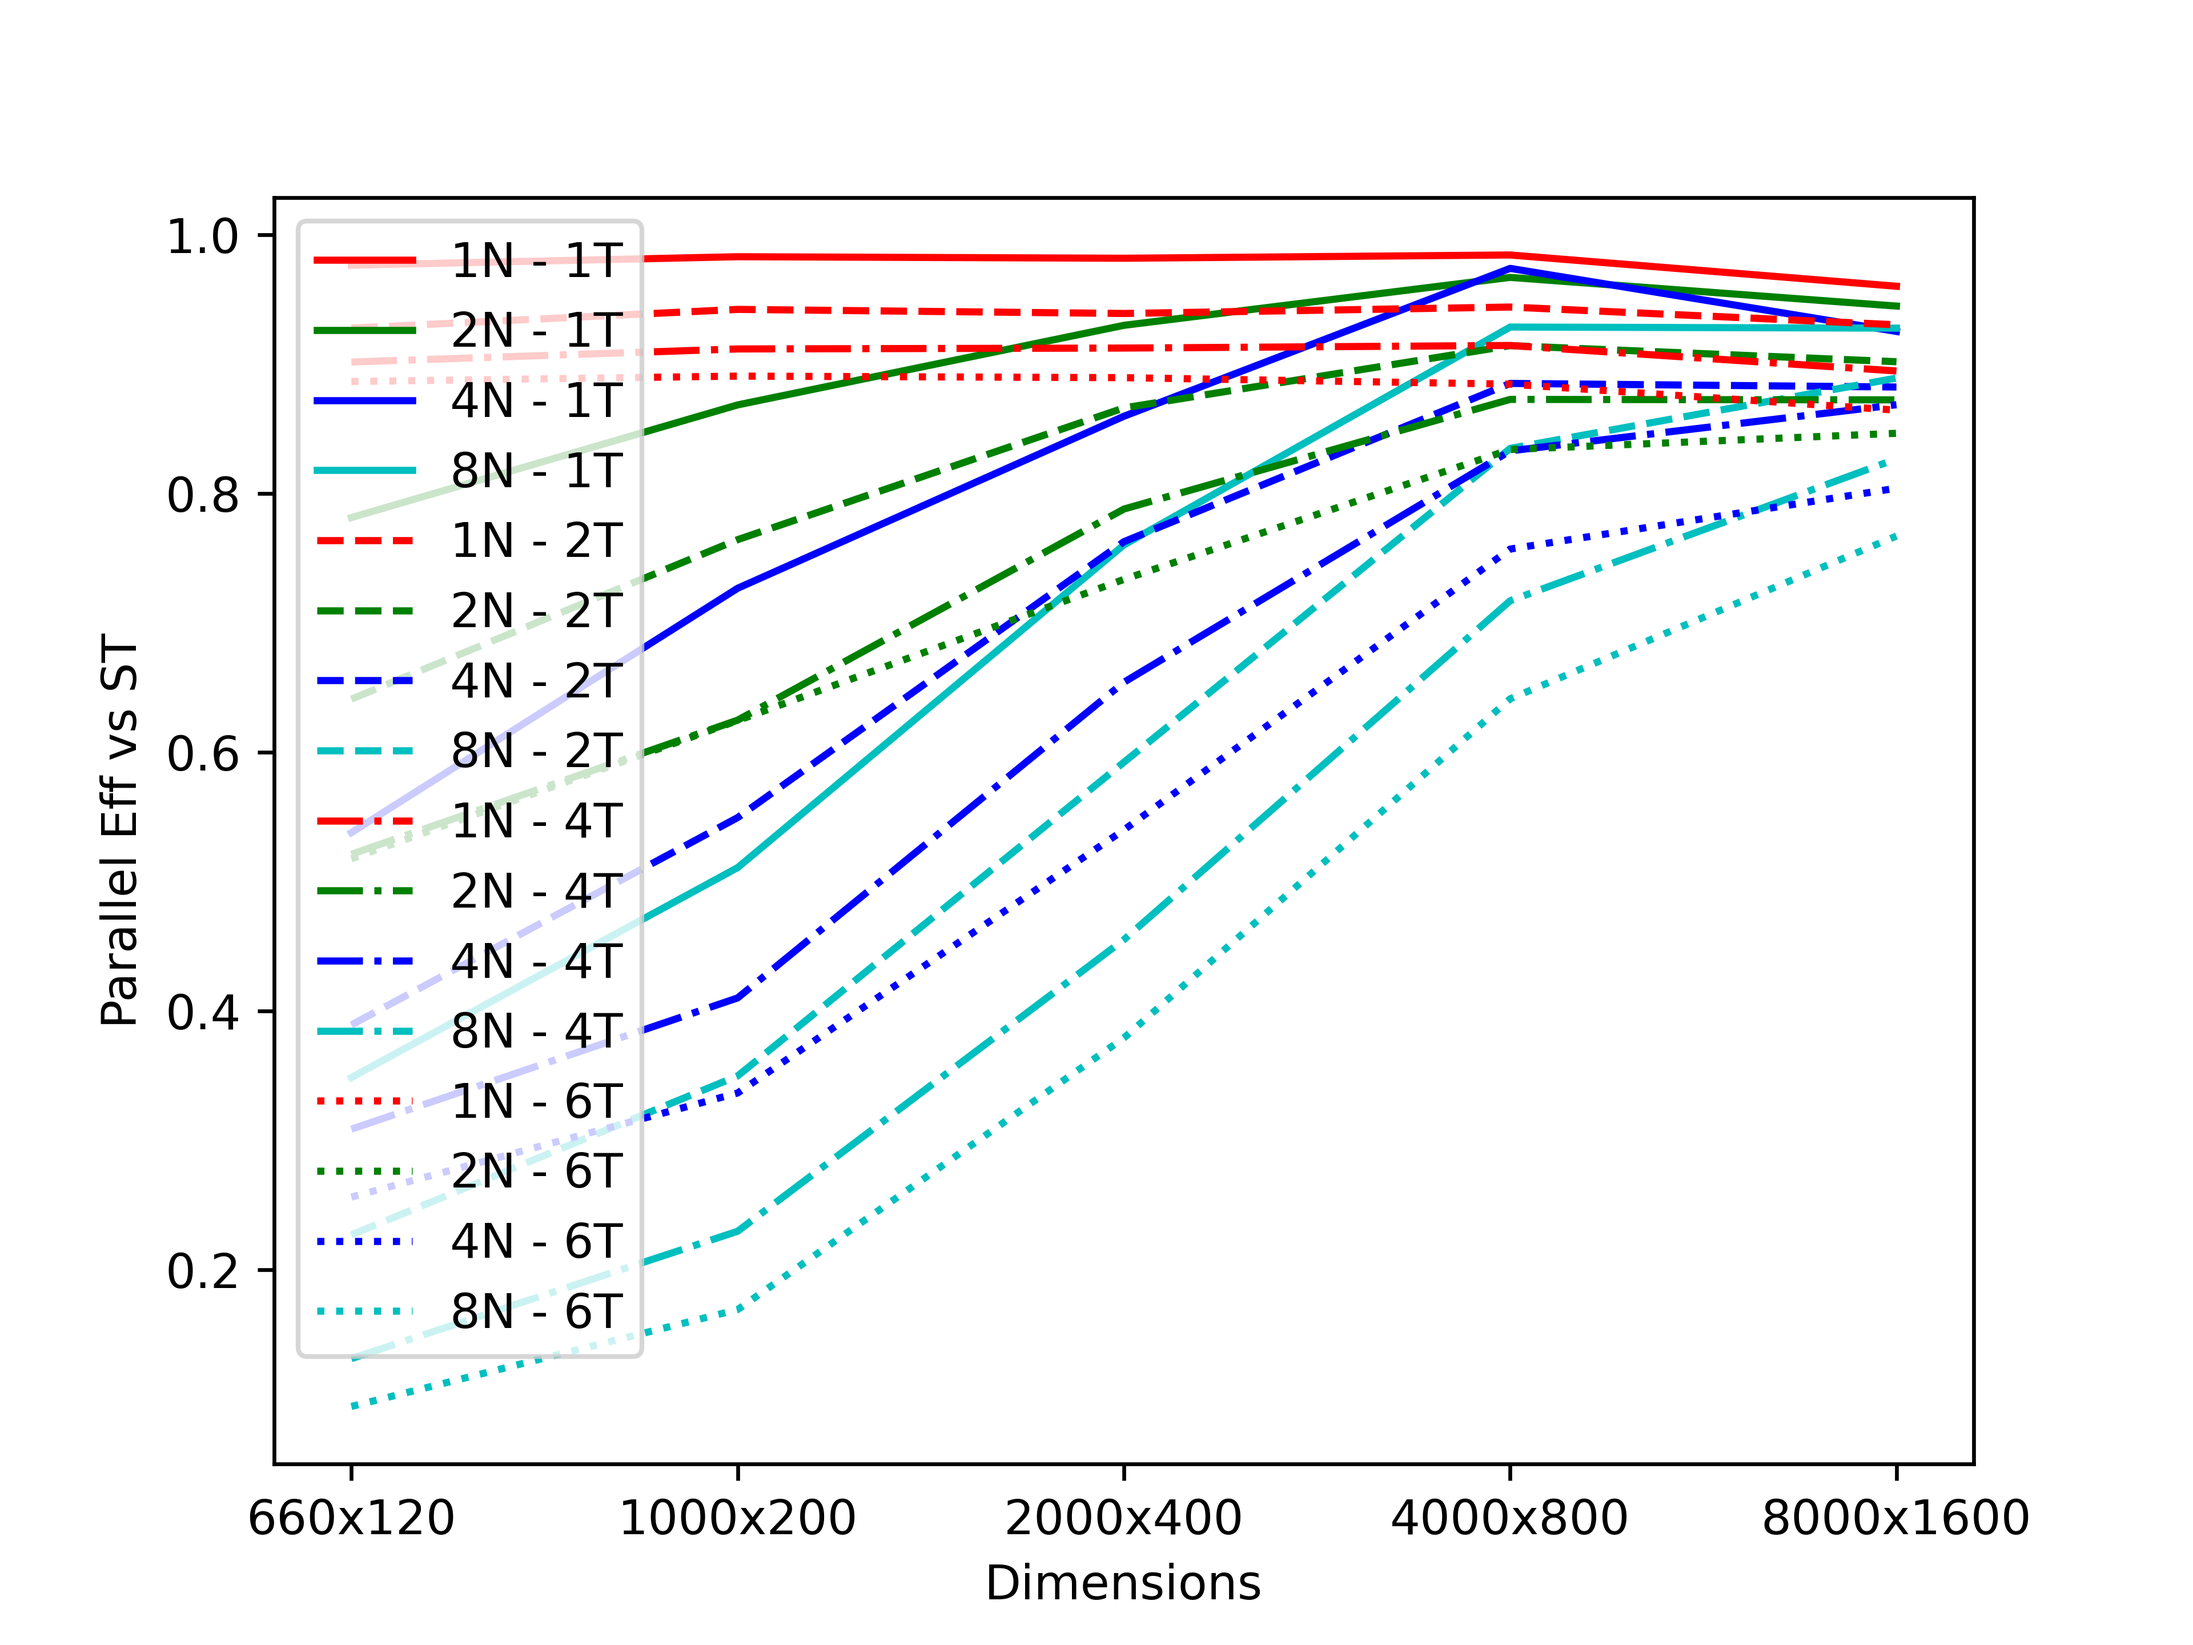
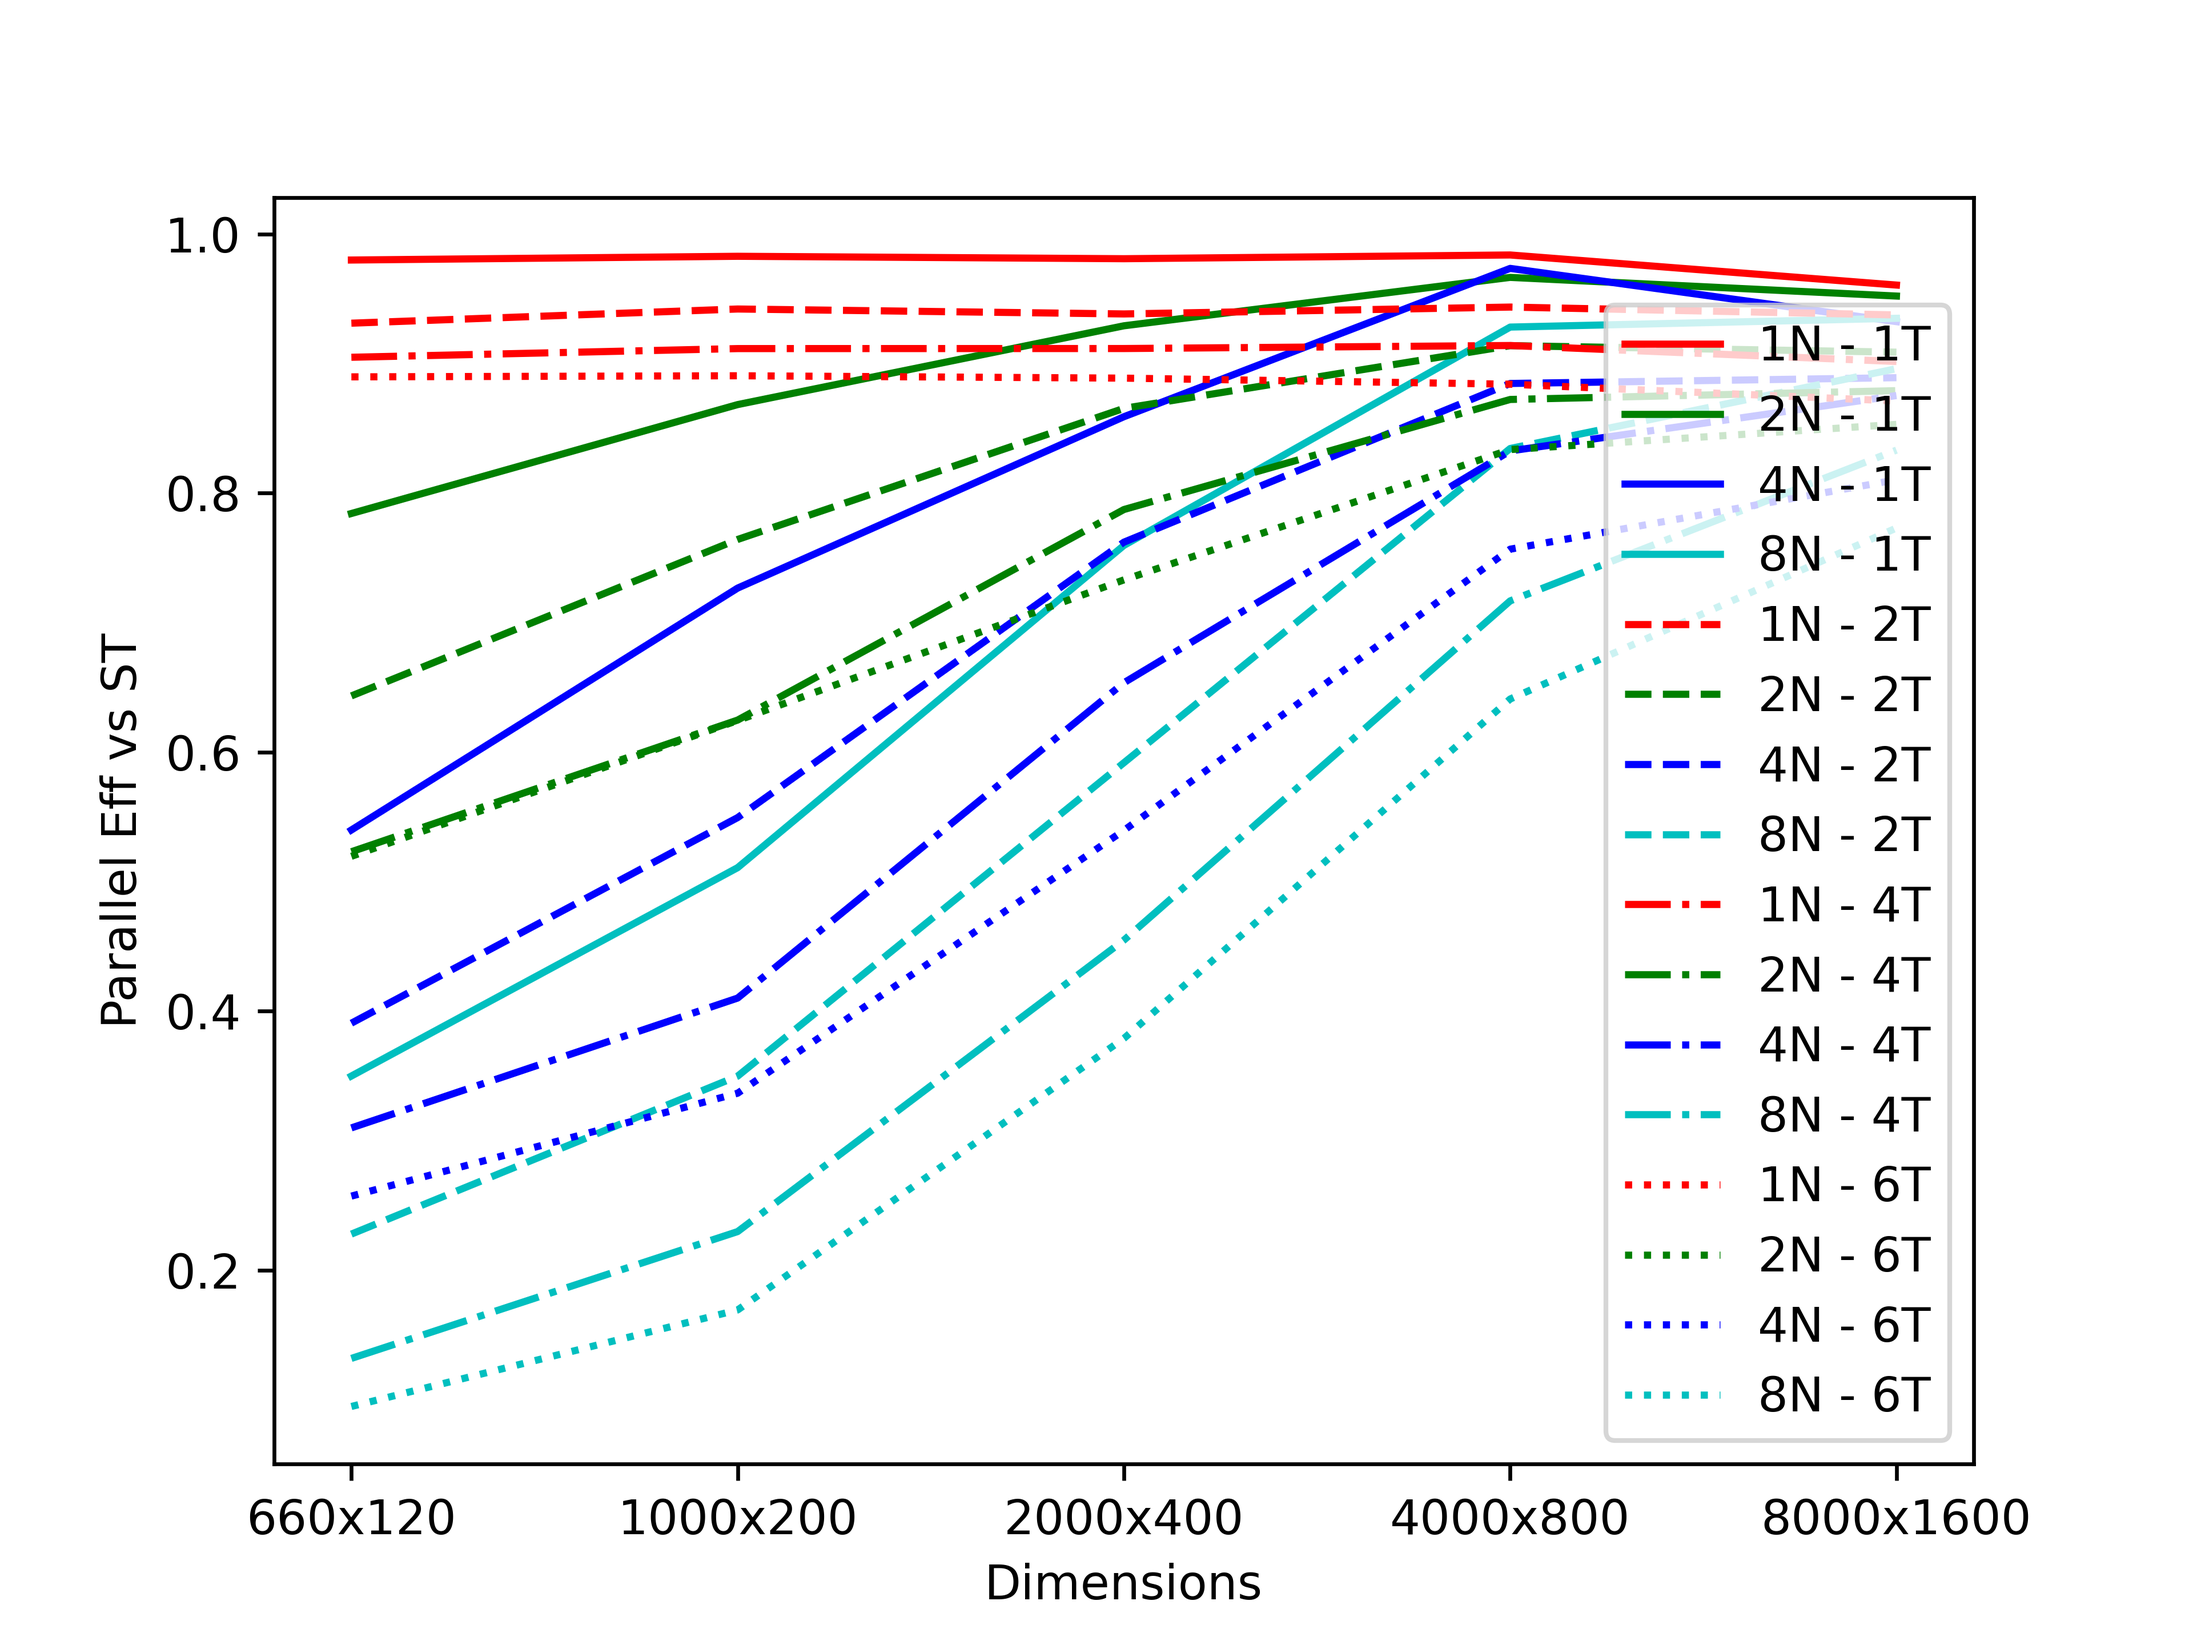
Ready for better sync measurement

diff --git a/cfd/analysis.py b/cfd/analysis.py
@@ -234,17 +234,17 @@ def plot_graphs():
     all_df = pd.concat(dfs, axis=0, ignore_index=True)
     # print(all_df)
     all_df["loop_time_taken"] = all_df[["timestep_time_taken", "compute_velocity_time_taken", "rhs_time_taken", "possion_time_taken", "update_velocity_time_taken", "boundary_time_taken"]].sum(axis=1)
-    # plot_time_against_thread_count(all_df)
-    # plot_speed_up_against_thread_count(all_df)
-    # plot_speed_up_against_dimensions(all_df)
-    # plot_speed_up_against_sbatch_nodes(all_df)
-    # plot_parallel_efficiency_against_thread_count(all_df)
-    # plot_parallel_efficiency_against_sbatch_nodes(all_df)
-    # plot_parallel_efficiency_against_dimensions(all_df)
+    plot_time_against_thread_count(all_df)
+    plot_speed_up_against_thread_count(all_df)
+    plot_speed_up_against_dimensions(all_df)
+    plot_speed_up_against_sbatch_nodes(all_df)
+    plot_parallel_efficiency_against_thread_count(all_df)
+    plot_parallel_efficiency_against_sbatch_nodes(all_df)
+    plot_parallel_efficiency_against_dimensions(all_df)
 
-    # plot_possion_loop_time_against_thread_count(all_df)
+    plot_possion_loop_time_against_thread_count(all_df)
     plot_possion_loop_parallel_efficiency_against_thread_count(all_df)
-    # plot_sync_time_against_sbatch_nodes(all_df)
+    plot_sync_time_against_sbatch_nodes(all_df)
 
 def plot_time_against_thread_count(all_df):
     df = all_df.groupby(["sbatch_nodes", "omp_threads", "x", "y"], as_index=False).mean()
@@ -327,6 +327,7 @@ def plot_possion_loop_time_against_thread_count(all_df):
         dim_df = dim_df[dim_df["y"] == y]
         plt.plot(dim_df["omp_threads"], dim_df["possion_p_loop_time_taken"], "r" + line_style, label=f"p - {x}x{y}")
         plt.plot(dim_df["omp_threads"], dim_df["possion_res_loop_time_taken"], "b" + line_style, label=f"res - {x}x{y}")
+        plt.plot(dim_df["omp_threads"], dim_df["compute_velocity_time_taken"], "g" + line_style, label=f"ctv - {x}x{y}")
 
     plt.legend()
     plt.xticks(omp_num_threads_tested)
@@ -345,18 +346,10 @@ def plot_possion_loop_parallel_efficiency_against_thread_count(all_df):
         dim_df = dim_df[dim_df["y"] == y]
         df_st = dim_df[dim_df["omp_threads"] == 0]
         thread_nums = np.array(dim_df["omp_threads"]).copy()
-        print(dim_df["omp_threads"], "potato")
         thread_nums[0] = 1
-        print(thread_nums)
-        print(df_st["possion_p_loop_time_taken"])
-        print(dim_df["possion_p_loop_time_taken"])
-        print("HI")
-        print((df_st["possion_p_loop_time_taken"].iloc[0] / dim_df["possion_p_loop_time_taken"]) / thread_nums)
-        print(np.array((df_st["possion_p_loop_time_taken"].iloc[0] / dim_df["possion_p_loop_time_taken"]) / thread_nums))
-        print((df_st["possion_res_loop_time_taken"].iloc[0] / dim_df["possion_res_loop_time_taken"]) / thread_nums)
-        print(np.array((df_st["possion_res_loop_time_taken"].iloc[0] / dim_df["possion_res_loop_time_taken"]) / thread_nums))
         plt.plot(dim_df["omp_threads"], (df_st["possion_p_loop_time_taken"].iloc[0] / dim_df["possion_p_loop_time_taken"]) / thread_nums, "r" + line_style, label=f"p - {x}x{y}")
         plt.plot(dim_df["omp_threads"], (df_st["possion_res_loop_time_taken"].iloc[0] / dim_df["possion_res_loop_time_taken"]) / thread_nums, "b" + line_style, label=f"res - {x}x{y}")
+        plt.plot(dim_df["omp_threads"], (df_st["compute_velocity_time_taken"].iloc[0] / dim_df["compute_velocity_time_taken"]) / thread_nums, "g" + line_style, label=f"ctv - {x}x{y}")
 
     plt.legend()
     plt.xticks(omp_num_threads_tested)

diff --git a/cfd/simulation-par.c b/cfd/simulation-par.c
@@ -17,7 +17,7 @@ void compute_tentative_velocity(float **u, float **v, float **f, float **g,
     char **flag, int imax, int jmax, float del_t, float delx, float dely,
     float gamma, float Re, struct TileData* tile_data, double * sync_time_taken)
 {
-    #pragma omp parallel firstprivate(imax, jmax, del_t, delx, dely, gamma, Re)
+    #pragma omp parallel firstprivate(imax, jmax, del_t, delx, dely, gamma, Re, tile_data)
     {
     int  i, j;
     float du2dx, duvdy, duvdx, dv2dy, laplu, laplv;
@@ -74,21 +74,21 @@ void compute_tentative_velocity(float **u, float **v, float **f, float **g,
     /* f & g at external boundaries */
 
     for (j=max(1, tile_data->start_y); j<=min(tile_data->end_y-1, jmax); j++) {
-        if (tile_data->start_x == 0) {
+        // if (tile_data->start_x == 0) {
             f[0][j]    = u[0][j];
-        }
-        if (tile_data->end_x >= imax) {
+        // }
+        // if (tile_data->end_x >= imax) {
             f[imax][j] = u[imax][j];
-        }
+        // }
     }
 
     for (i=max(1, tile_data->start_x); i<=min(tile_data->end_x-1, imax); i++) {
-        if (tile_data->start_y == 0) {
+        // if (tile_data->start_y == 0) {
             g[i][0]    = v[i][0];
-        }
-        if (tile_data->end_y >= jmax) {
+        // }
+        // if (tile_data->end_y >= jmax) {
             g[i][jmax] = v[i][jmax];
-        }
+        // }
     }
     }
     halo_sync(proc, f, tile_data, sync_time_taken);

diff --git a/cfd/karman-par.c b/cfd/karman-par.c
@@ -250,6 +250,10 @@ int main(int argc, char *argv[])
         halo_sync(proc, u, &tile_data, &sync_time_taken); // TODO these are probably not necessary
         halo_sync(proc, v, &tile_data, &sync_time_taken);
         boundary_time_taken = MPI_Wtime() - start;
+
+        double avg_sync_time_taken = 0.0;
+        MPI_Allreduce(&sync_time_taken, &avg_sync_time_taken, 1, MPI_FLOAT, MPI_SUM, MPI_COMM_WORLD);
+        avg_sync_time_taken /= nprocs;
         if (proc == 0) {
             printf("\n --- Timestep %f of %f ---\n", t, t_end);
             printf("timestep_time_taken: %f\n", timestep_time_taken);
@@ -259,7 +263,7 @@ int main(int argc, char *argv[])
             printf("update_velocity_time_taken: %f\n", update_velocity_time_taken);
             printf("boundary_time_taken: %f\n", boundary_time_taken);
 
-            printf("sync_time_taken: %f\n", sync_time_taken);
+            printf("sync_time_taken: %f\n", avg_sync_time_taken);
             printf("possion_p_loop_time_taken: %f\n", possion_p_loop_time_taken);
             printf("possion_res_loop_time_taken: %f\n", possion_res_loop_time_taken);
         }
